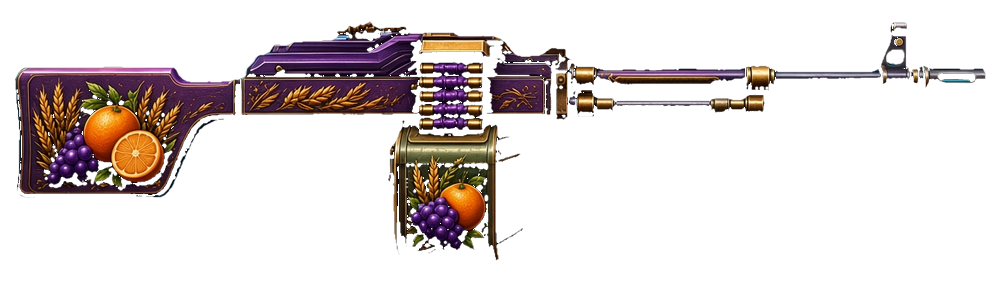
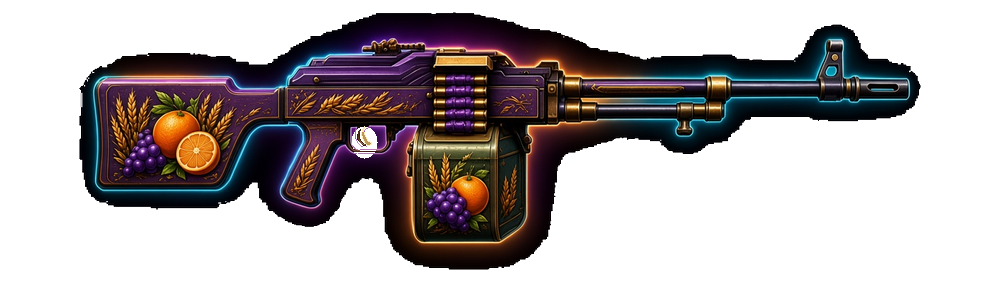
Fix event patches: restore triggers, keep PKM art, mint Saiga glow.
Repaint SCAR/Saiga/PKM triggers into open guards, gentle PKM flood so harvest art stays, strip Saiga red fringe and use mint CSS so glow no longer washes apples; cache bust fix5.

diff --git a/src/app/globals.css b/src/app/globals.css
@@ -1643,14 +1643,15 @@ body:has(.tm-sapper-page) {
   }
 }
 
-/* Сайга — яблоко: красный + зелёный */
+/* Сайга — мятный ореол по зелени ствола; НЕ красный (красный drop-shadow
+   сливается с яблоками и «съедает» рисунок) */
 .nick-patch-mark[data-patch-id="creator-event-saiga-apple"]
   .nick-patch-mark-art {
   transform: scaleX(-1);
   opacity: 1;
   filter:
-    drop-shadow(0 0 3px rgba(255, 200, 190, 0.7))
-    drop-shadow(0 0 7px rgba(220, 70, 70, 0.5)) !important;
+    drop-shadow(0 0 2px rgba(200, 255, 230, 0.4))
+    drop-shadow(0 0 5px rgba(90, 170, 120, 0.28)) !important;
   animation: event-saiga-apple-glow 3.2s ease-in-out infinite !important;
 }
 .nick-patch-mark[data-patch-id="creator-event-saiga-apple"]:hover
@@ -1662,24 +1663,22 @@ body:has(.tm-sapper-page) {
   animation: none !important;
   transform: scaleX(-1) scale(1.08);
   filter:
-    drop-shadow(0 0 5px rgba(255, 220, 210, 0.9))
-    drop-shadow(0 0 11px rgba(230, 80, 80, 0.7))
-    drop-shadow(0 0 14px rgba(80, 170, 90, 0.28))
-    brightness(1.08) !important;
+    drop-shadow(0 0 3px rgba(210, 255, 235, 0.55))
+    drop-shadow(0 0 8px rgba(100, 180, 130, 0.4)) !important;
   opacity: 1;
 }
 @keyframes event-saiga-apple-glow {
   0%,
   100% {
     filter:
-      drop-shadow(0 0 3px rgba(255, 200, 190, 0.6))
-      drop-shadow(0 0 6px rgba(210, 65, 65, 0.42));
-    opacity: 0.92;
+      drop-shadow(0 0 2px rgba(200, 255, 230, 0.32))
+      drop-shadow(0 0 4px rgba(85, 160, 115, 0.22));
+    opacity: 0.96;
   }
   50% {
     filter:
-      drop-shadow(0 0 4px rgba(255, 220, 210, 0.82))
-      drop-shadow(0 0 10px rgba(230, 80, 80, 0.58));
+      drop-shadow(0 0 3px rgba(210, 255, 235, 0.48))
+      drop-shadow(0 0 7px rgba(100, 180, 130, 0.34));
     opacity: 1;
   }
 }

diff --git a/src/app/profile-v2.css b/src/app/profile-v2.css
@@ -1465,9 +1465,10 @@ body.has-profile-bg .shell:has(.profile-page) {
   .profile-patch-tile-art {
   width: 94%;
   transform: scaleX(-1);
+  /* мята по зелени — красный ореол замывал яблоки */
   filter:
-    drop-shadow(0 0 3px rgba(255, 200, 190, 0.65))
-    drop-shadow(0 0 8px rgba(220, 70, 70, 0.48));
+    drop-shadow(0 0 2px rgba(200, 255, 230, 0.38))
+    drop-shadow(0 0 6px rgba(90, 170, 120, 0.26));
   animation: event-saiga-apple-tile-glow 3.2s ease-in-out infinite;
   transition: filter 0.15s ease, transform 0.15s ease;
 }
@@ -1480,21 +1481,20 @@ body.has-profile-bg .shell:has(.profile-page) {
   animation: none;
   transform: scaleX(-1) scale(1.06);
   filter:
-    drop-shadow(0 0 5px rgba(255, 220, 210, 0.85))
-    drop-shadow(0 0 12px rgba(230, 80, 80, 0.62))
-    brightness(1.06);
+    drop-shadow(0 0 3px rgba(210, 255, 235, 0.55))
+    drop-shadow(0 0 9px rgba(100, 180, 130, 0.38));
 }
 @keyframes event-saiga-apple-tile-glow {
   0%,
   100% {
     filter:
-      drop-shadow(0 0 3px rgba(255, 200, 190, 0.55))
-      drop-shadow(0 0 7px rgba(210, 65, 65, 0.38));
+      drop-shadow(0 0 2px rgba(200, 255, 230, 0.3))
+      drop-shadow(0 0 5px rgba(85, 160, 115, 0.2));
   }
   50% {
     filter:
-      drop-shadow(0 0 4px rgba(255, 220, 210, 0.75))
-      drop-shadow(0 0 10px rgba(230, 80, 80, 0.52));
+      drop-shadow(0 0 3px rgba(210, 255, 235, 0.45))
+      drop-shadow(0 0 7px rgba(100, 180, 130, 0.32));
   }
 }
 

diff --git a/src/lib/profilePatches.ts b/src/lib/profilePatches.ts
@@ -112,7 +112,7 @@ export function profilePatchUrl(
       : id === "creator-event-pkm-harvest" ||
           id === "creator-event-scar-lemon" ||
           id === "creator-event-saiga-apple"
-        ? "?v=glow2"
+        ? "?v=fix5"
         : "";
   return `/bp-assets/${opt.file}${bust}`;
 }
